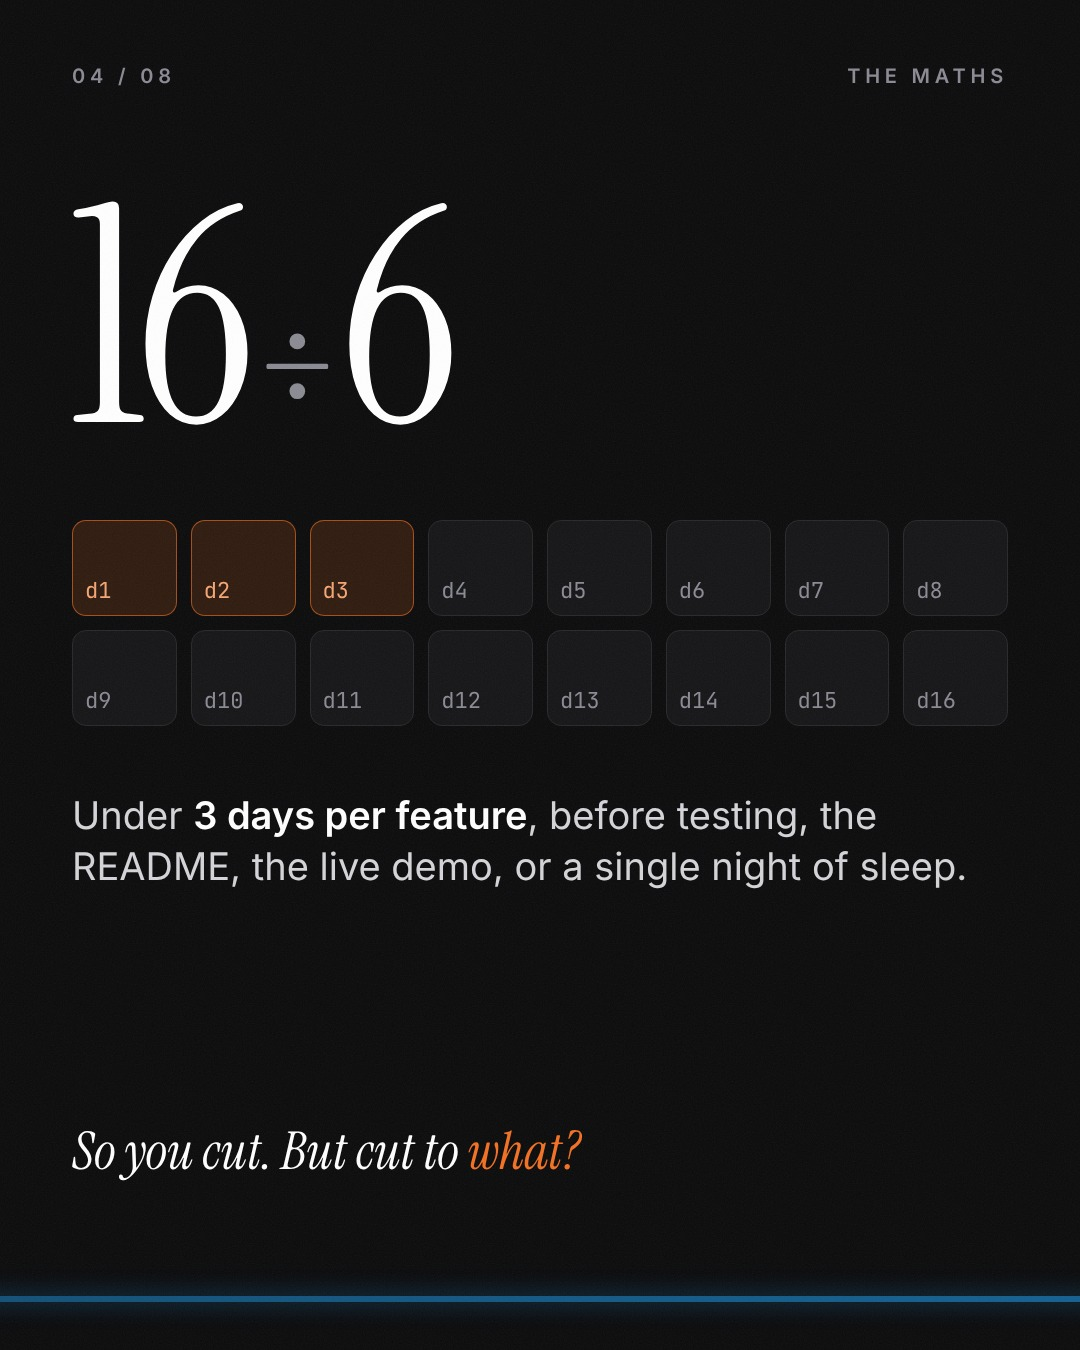
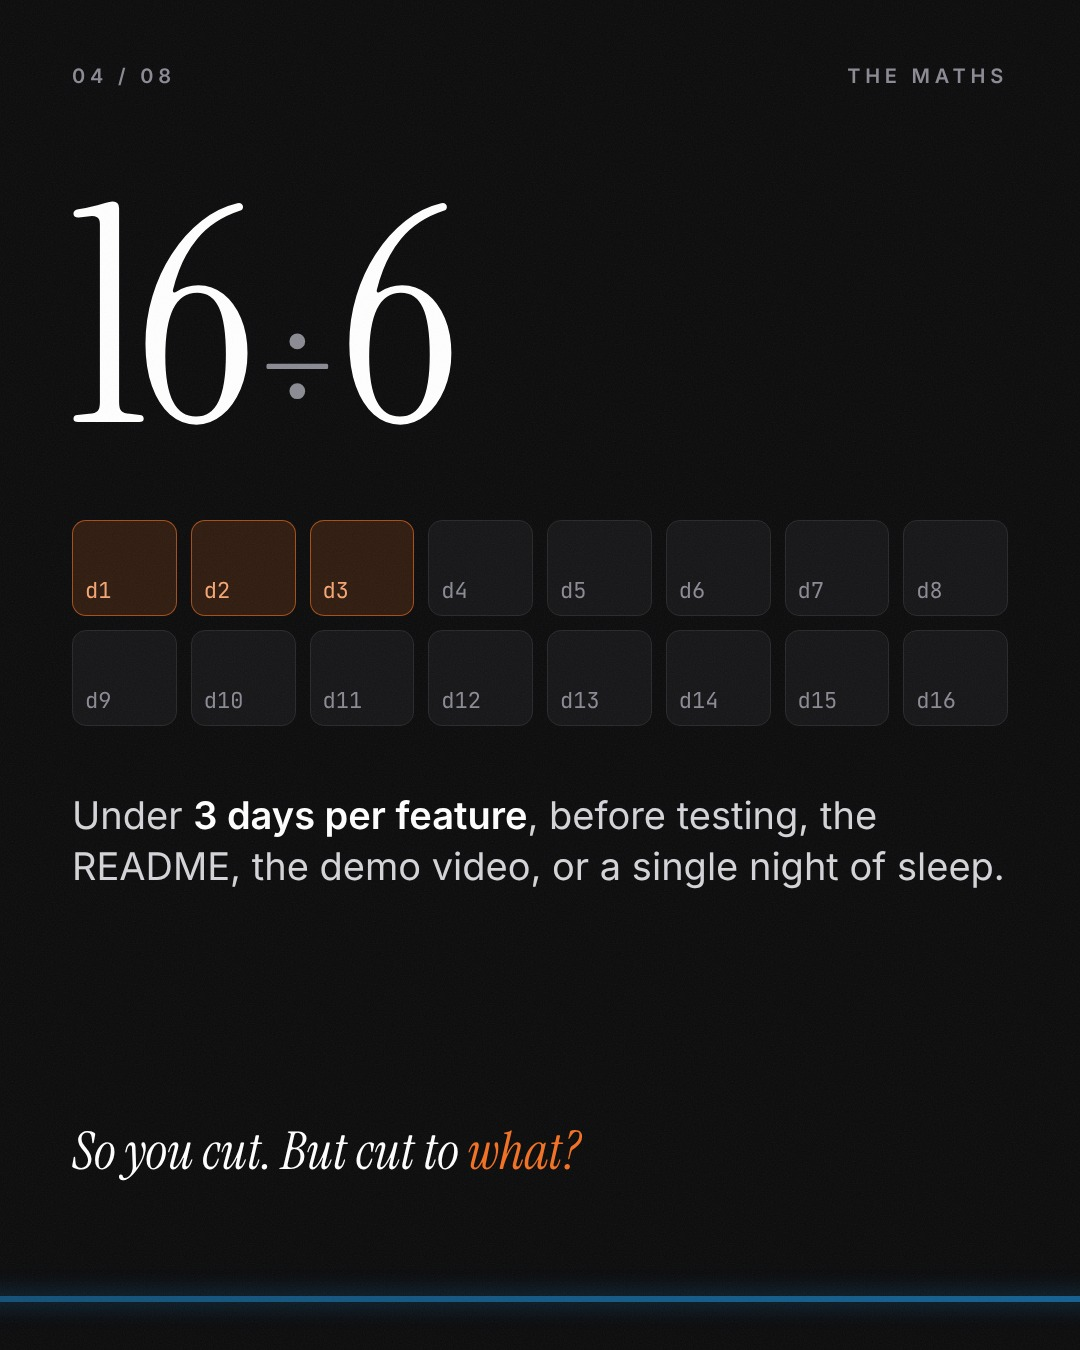
Submission rule: public repo + demo video required, live link and deck optional; fix hackdays c1 slides 4 and 7; retire 'live demo' wording

Changed region(s): [[0.3056, 0.6222, 0.9167, 0.6533]]

diff --git a/posts/hackdays/2026-10-11-c1-scope-16-days.html b/posts/hackdays/2026-10-11-c1-scope-16-days.html
@@ -100,7 +100,7 @@
 <div class="burn">d1</div><div class="burn">d2</div><div class="burn">d3</div><div>d4</div><div>d5</div><div>d6</div><div>d7</div><div>d8</div>
 <div>d9</div><div>d10</div><div>d11</div><div>d12</div><div>d13</div><div>d14</div><div>d15</div><div>d16</div>
 </div>
-<div class="body" style="top:790px">Under <b>3 days per feature</b>, before testing, the README, the live demo, or a single night of sleep.</div>
+<div class="body" style="top:790px">Under <b>3 days per feature</b>, before testing, the README, the demo video, or a single night of sleep.</div>
 <div class="next" style="bottom:170px">So you cut. But cut to <em>what?</em></div>
 <div class="grain"></div>
 </section>
@@ -142,7 +142,7 @@
 <div class="sun" style="left:410px;top:1166px"></div>
 <div class="top label"><div>07 / 08</div><div>the payoff</div></div>
 <div class="h" style="top:180px;font-size:104px;line-height:1">One loop that <em>works</em><br>beats six that<br>half-work.</div>
-<div class="body" style="top:600px">Small scope means your 16 days go into making it run end to end, so your public repo and live demo show the real thing, not a promise.</div>
+<div class="body" style="top:600px">Small scope means your 16 days go into making it run end to end, so your public repo and demo video show the real thing, not a promise.</div>
 <div class="grain"></div>
 </section>
 

diff --git a/playbook/hackdays.md b/playbook/hackdays.md
@@ -9,7 +9,7 @@ Promotion of Homingo Hack Days, its use cases and benefits, daily tech news, wor
 - Homingo Hack Days: national-scale, online AI Engineering hackathon for students (school and college, 16+) and early-career developers across India. Edition 01.
 - Site: hackathon.homingo.co.in. Online, open to all of India. Solo or teams of 2–4.
 - Tracks: Agents (autonomous agents that plan, use tools and finish real tasks), Automation (pipelines and workflows that remove busywork from real operations), LLM apps (products on large language models, shipped for real users).
-- Edition 01 timeline (2026, IST): Registration 1 Oct – 15 Nov (closes 15 Nov 11:59 PM IST). Team formation until 18 Nov. Kick-off and problem statements 21 Nov. Build phase 21 Nov – 6 Dec. Submissions 4 – 6 Dec (repo, demo video, deck). Shortlisting 7 – 12 Dec. Finals & review day 19 Dec (online; there is no separate demo day). Results and certificates 21 – 31 Dec.
+- Edition 01 timeline (2026, IST): Registration 1 Oct – 15 Nov (closes 15 Nov 11:59 PM IST). Team formation until 18 Nov. Kick-off and problem statements 21 Nov. Build phase 21 Nov – 6 Dec. Submissions 4 – 6 Dec: a PUBLIC GitHub repo link and a short demo video link are required; a live website link and a deck are optional (owner, 2026-10-10, confirmed 2026-10-11). Shortlisting 7 – 12 Dec. Finals & review day 19 Dec (online; there is no separate demo day). Results and certificates 21 – 31 Dec.
 - Rewards: ₹5,000 cash prize to the winner (the winner only; no cash for 2nd or 3rd). Recommendation Certificate from SurgeLabs for the top 3. Verifiable participation certificate (unique ID + QR) for everyone who submits.
 - Perks: internship/freelance opportunities with SurgeLabs, fast-track interview consideration, Homingo Stores access, national spotlight for winners, portfolio reviews, LinkedIn recommendations, alumni community, early access to future editions.
 - Mentors: fully online and flexible (video calls, chat, async feedback; no fixed hours). Mentors are never named or shown. No cash for mentors; recognition: mentor certificate, LinkedIn recommendation from SurgeLabs, early access to talent, Mentor → Senior Mentor → Judge.
@@ -29,7 +29,7 @@ Mix in tech news / tech affairs posts about 2 days in 7, framed for builders ("w
 Every feed post is a carousel. Two different categories a day; cover all four every two days; the phase calendar decides the weighting (registration conversion until 15 Nov leans on Countdown and How it works; the build phase leans on Project ideas and Builder tips).
 - **Countdown and deadlines** (`countdown`): days left to register, key dates, what to do before each date. Turn the countdown into a story ("14 days. Here's how a solo builder can ship an agent in that time.") rather than a bare number.
 - **Project ideas** (`ideas`): what to build in Agents, Automation and LLM apps. Concrete, scoped ideas with the problem, the user, the core loop, and a stretch goal. Tie to recent launches when TRENDS.md finds a strong one.
-- **How it works** (`how`): teams, registration, submission (repo, demo video and deck), review, the prize, certificates, mentors, the timeline. Only the facts above.
+- **How it works** (`how`): teams, registration, submission (public GitHub repo + short demo video required; live link and deck optional), review, the prize, certificates, mentors, the timeline. Only the facts above.
 - **Builder tips** (`tips`): scoping a project, recording a good demo video, a clean README, prompting, agent design, evaluation, shipping fast.
 Slide formats to borrow from (mix inside one carousel; invent new ones too): terminal boot screen · patch notes · error page · git log · character-select · countdown clock · checklist / todo.md · code diff · chat thread · news card with source · myth vs fact · FAQ · timeline · comparison table.
 

diff --git a/playbook/FEEDBACK.md b/playbook/FEEDBACK.md
@@ -2,6 +2,7 @@
 
 Yusuf's notes to the content runs. Every run reads this first; it overrides everything except facts and the "Never" rules. Runs never edit this file. Add the newest note at the top, with a date.
 
+- 2026-10-11: Submission = a PUBLIC GitHub repo link + a short demo video link, both required. A live website link and a deck are optional. Never write "live demo" as a requirement.
 - 2026-10-10: Everything planned for a day must go live that day. Late is fine, missing is not. If something breaks, fix it and still post it.
 - 2026-10-10: From now on every feed post on all four accounts is a carousel, never a single image. Stories continue.
 - 2026-10-10: Hooks must create real curiosity: each slide should make people need the next one. Keep the system self-learning and self-improving, and keep improving the repo and playbooks.
